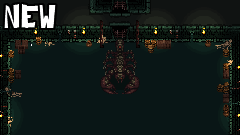
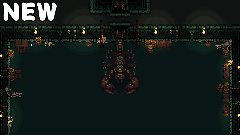
changes

Changed region(s): [[0.0, 0.0, 0.2625, 0.237]]

diff --git a/css/style.css b/css/style.css
@@ -56,9 +56,9 @@ body
 	float: right;
 	height: 128;
 	width: 128;
-	transform: rotate(25deg) scaleX(2) scaleY(2);  
-	margin-right: 35%;
-	margin-top: 12%;
+	transform: rotate(25deg) scaleX(1.2) scaleY(1.2);  
+	margin-right: 30%;
+	margin-top: 15%;
 }
 
 #media
